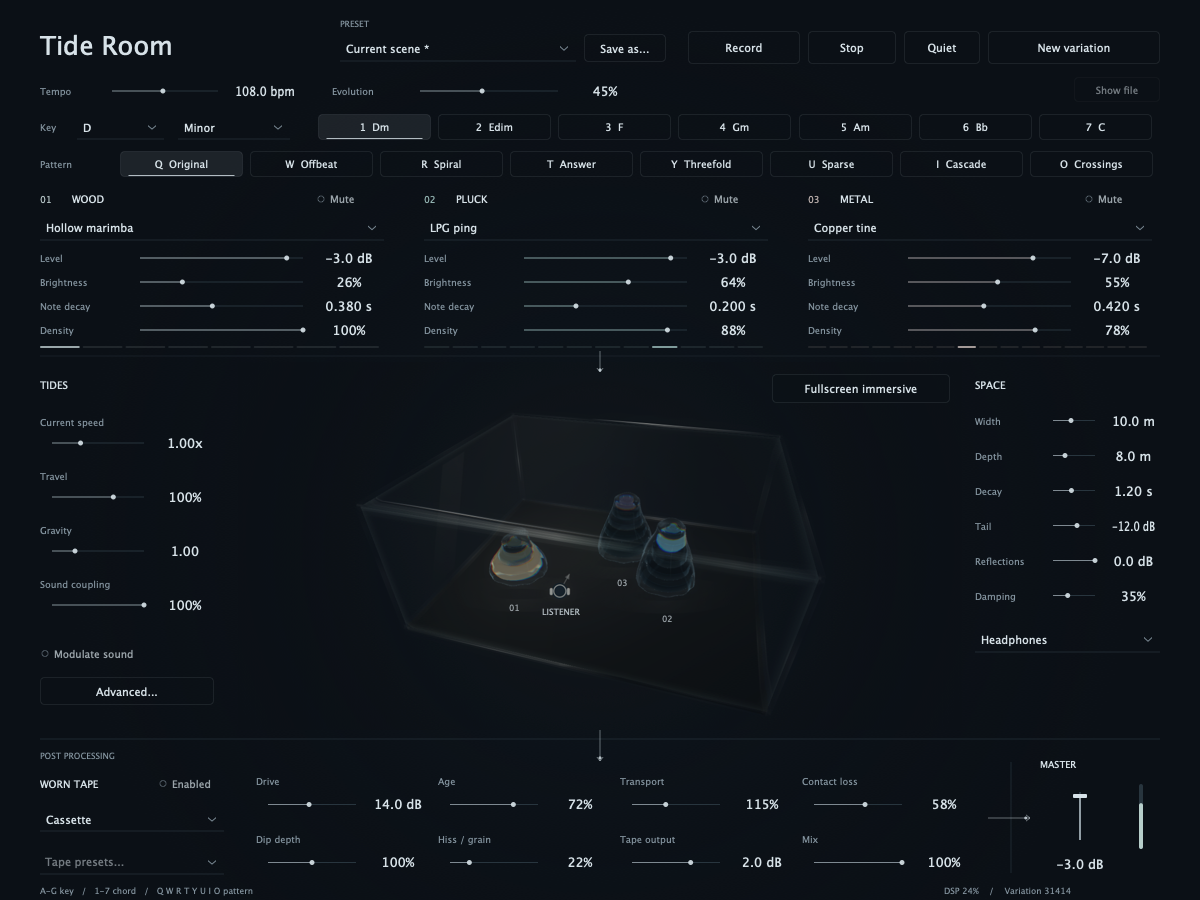
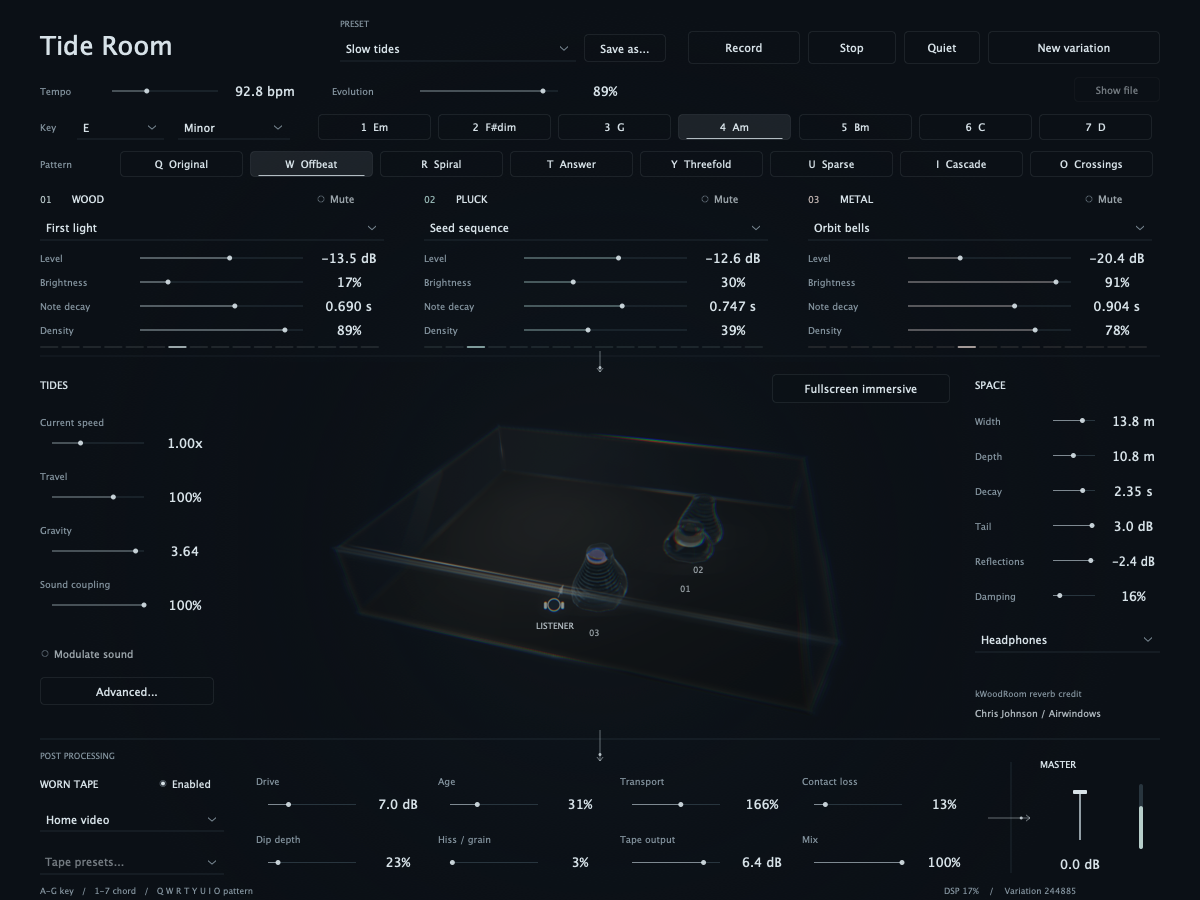
Show Airwindows reverb credit in the Space panel

diff --git a/native/Room/RoomEditor.cpp b/native/Room/RoomEditor.cpp
@@ -205,6 +205,12 @@ RoomEditor::RoomEditor(RoomProcessor& p):AudioProcessorEditor(p),scene(p),harmon
 #if TIDE_NATIVE_WOOD
     editorButton.setVisible(false);
     placement.setTooltip("Headphones uses measured ear filters. Stereo uses speaker panning. Both share the same room.");
+    addAndMakeVisible(reverbCreditCaption);reverbCreditCaption.setText("kWoodRoom reverb credit",juce::dontSendNotification);
+    reverbCreditCaption.setFont(juce::FontOptions(10.f));reverbCreditCaption.setBorderSize({});
+    reverbCreditCaption.setColour(juce::Label::textColourId,tide::glass::muted);
+    addAndMakeVisible(reverbCredit);reverbCredit.setFont(juce::Font(juce::FontOptions(11.f)),false,juce::Justification::centredLeft);
+    reverbCredit.setColour(juce::HyperlinkButton::textColourId,tide::glass::text.withAlpha(.78f));
+    reverbCredit.setTooltip("Chris Johnson / Airwindows created kWoodRoom, retained in Tide Room's WoodRoom engine under the MIT license. Visit Airwindows.");
 #endif
     setSize(1200,900);startTimerHz(25);timerCallback();
 }
@@ -261,6 +267,7 @@ void RoomEditor::resized(){
     recordButton.setBounds(688,31,112,33);recordingFileButton.setBounds(1074,77,86,25);recordingTime.setBounds(901,77,162,25);
     minimalTides.setBounds(40,374,174,334);postProcessing.setBounds(40,772,946,108);
     placement.setBounds(975,625,185,28);
+    reverbCreditCaption.setBounds(975,684,185,18);reverbCredit.setBounds(974,703,186,20);
     const auto room=tide::layout::roomBounds().toNearestInt();immersiveButton.setBounds(room.getRight()-190,room.getY()+12,178,29);
     for(int i=0;i<5;++i){auto& control=global[(size_t)(i<2?i+3:i+4)];control.setBounds(1041,408+i*35,119,25);control.setTextBoxStyle(juce::Slider::TextBoxRight,false,53,25);}
     editorButton.setBounds(975,698,185,25);

diff --git a/native/Room/RoomEditor.h b/native/Room/RoomEditor.h
@@ -65,6 +65,8 @@ private:
     };
     std::array<Card,3> cards;
     juce::ComboBox placement;
+    juce::Label reverbCreditCaption;
+    juce::HyperlinkButton reverbCredit{"Chris Johnson / Airwindows",juce::URL("https://www.airwindows.com/")};
     std::unique_ptr<juce::AudioProcessorValueTreeState::ComboBoxAttachment> placementAttachment;
     juce::TextButton tapeOn{"Tape off"};
     std::unique_ptr<ButtonAttachment> tapeAttachment;
